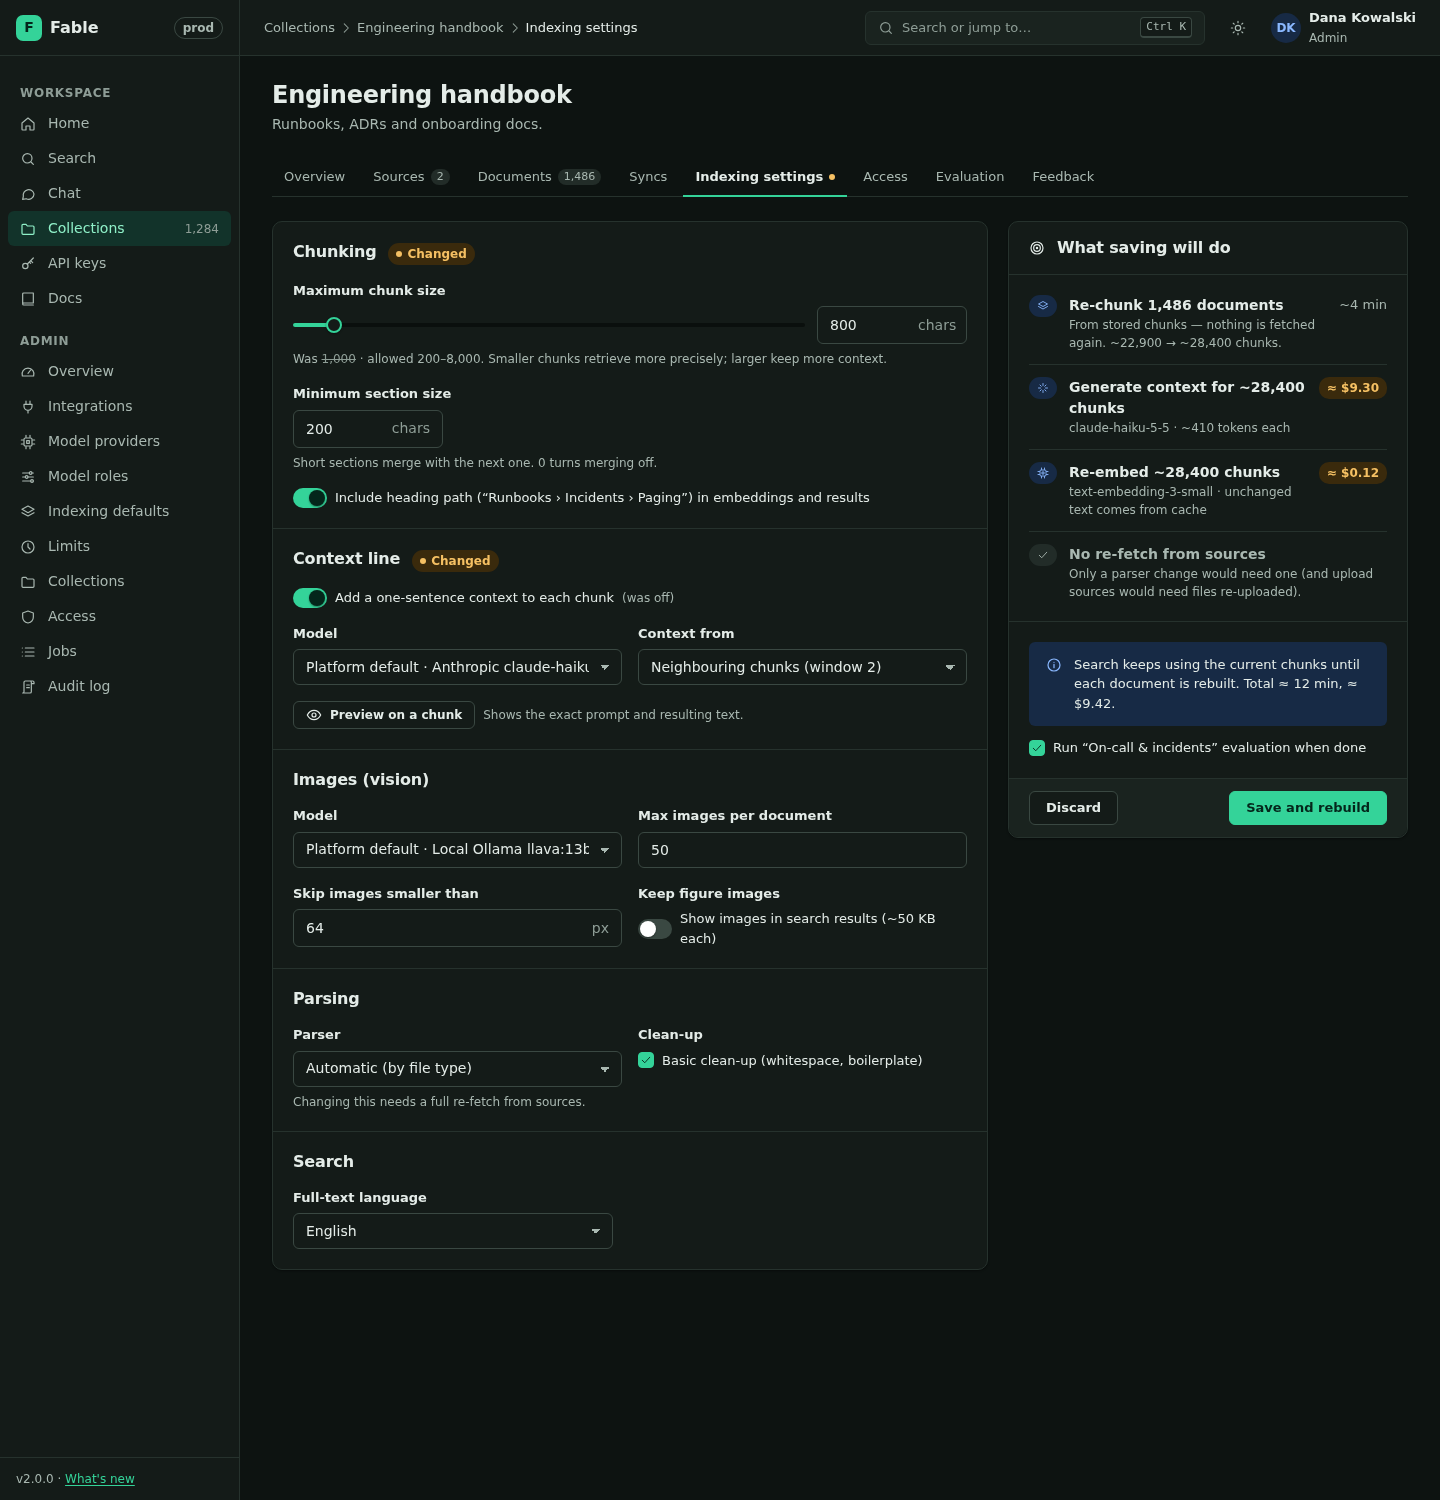
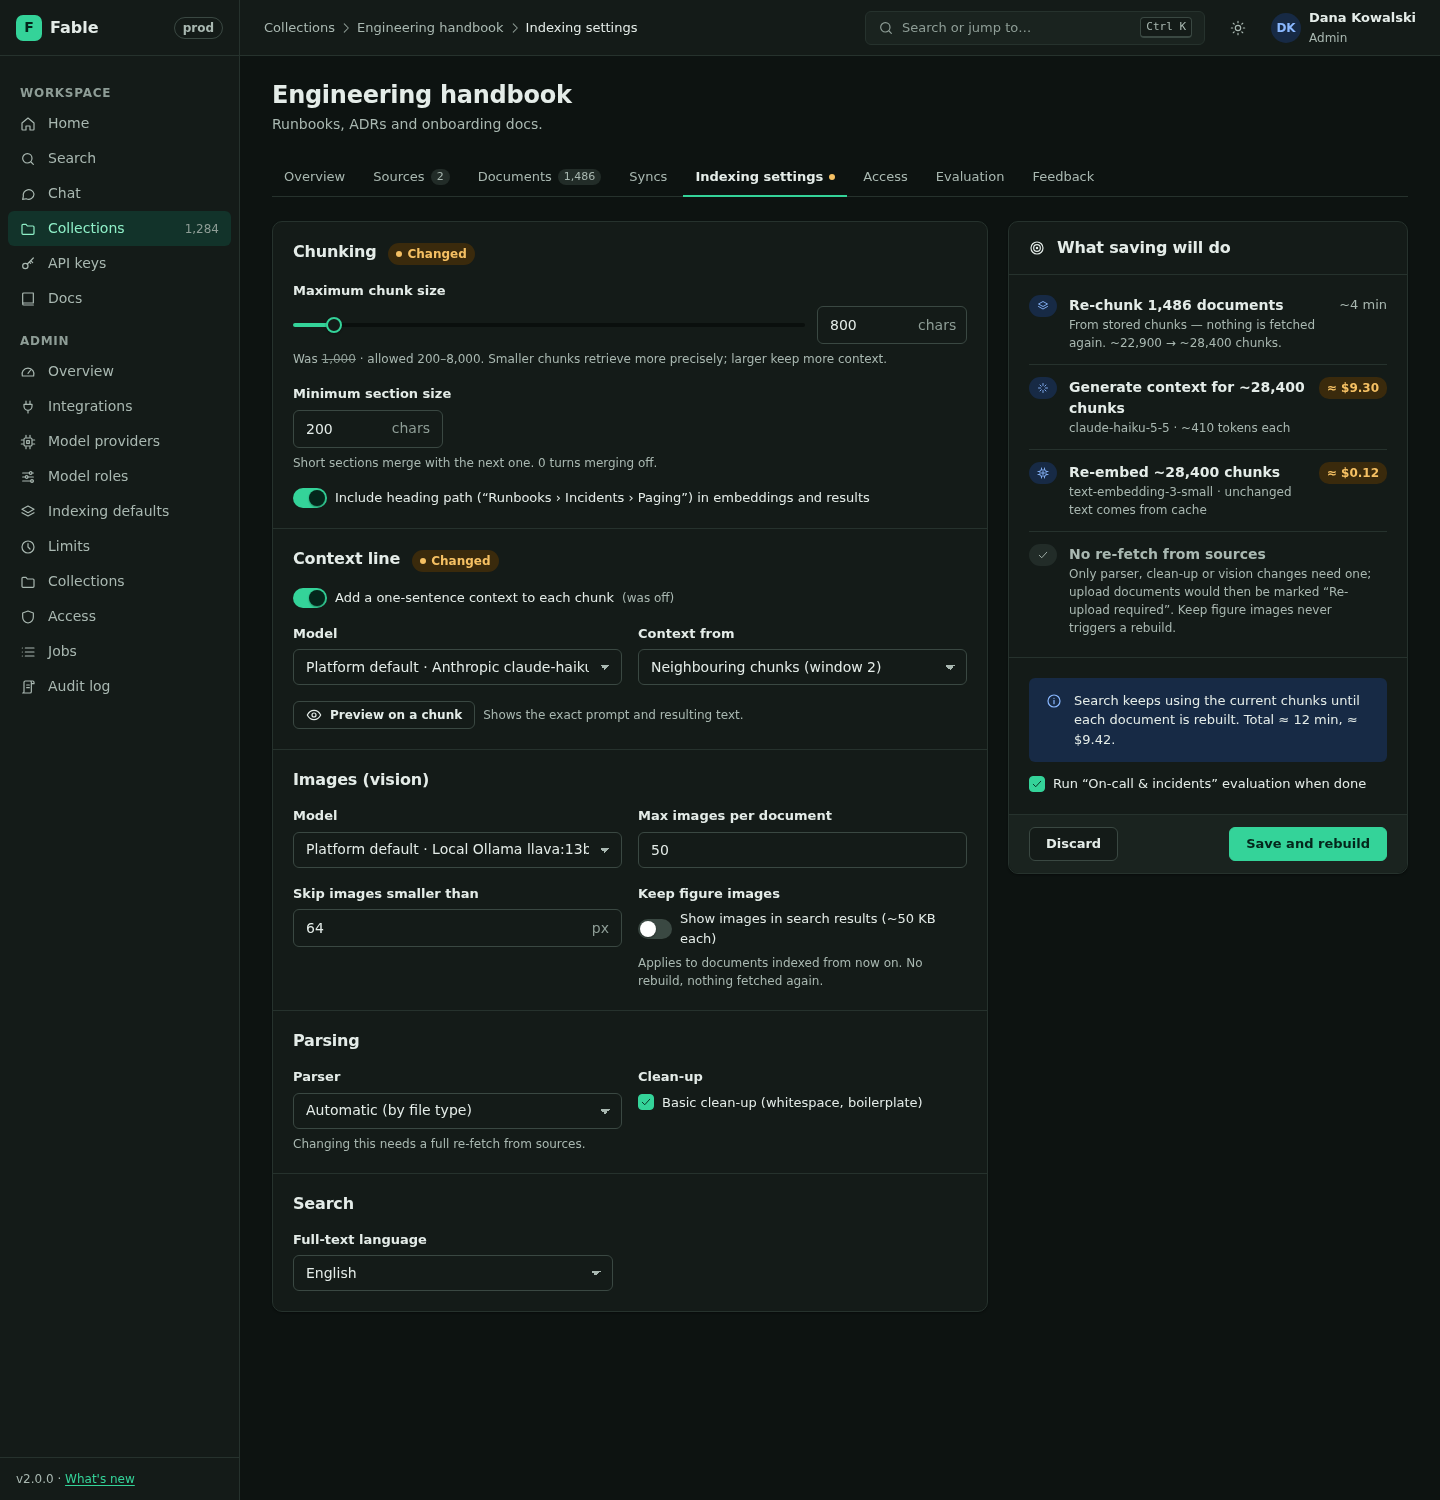
FAB-180: Align keep_figures and upload re-parse with FAB-141/FAB-140
- keep_figures no longer listed as a re-parse trigger; it applies to
  documents indexed afterwards with no rebuild and no fetch (FAB-141).
- Documents tab gains a 'Re-upload required' status for upload documents
  after a re-parse-triggering change, with a filter, callout and re-upload
  action (FAB-140, ST-5); surfaced in collections 'Needs attention'.

diff --git a/docs/design/indexing-settings.html b/docs/design/indexing-settings.html
@@ -68,7 +68,7 @@
           </div>
           <div class="grid-2">
             <div class="field"><label class="label" for="v-min">Skip images smaller than</label><div class="input-group"><input class="input num" id="v-min" value="64"><span class="addon">px</span></div></div>
-            <div class="field"><span class="label">Keep figure images</span><div class="switch" role="switch" aria-checked="false" tabindex="0"><span class="track"></span>Show images in search results (~50 KB each)</div></div>
+            <div class="field"><span class="label">Keep figure images</span><div class="switch" role="switch" aria-checked="false" tabindex="0"><span class="track"></span>Show images in search results (~50 KB each)</div><span class="help">Applies to documents indexed from now on. No rebuild, nothing fetched again.</span></div>
           </div>
         </div>
       </section>
@@ -107,7 +107,7 @@
         </div>
         <div class="impact-row">
           <span class="pill" style="padding:0;width:28px;justify-content:center"><i data-icon="check"></i></span>
-          <div class="muted"><strong>No re-fetch from sources</strong><div class="xs">Only a parser change would need one (and upload sources would need files re-uploaded).</div></div>
+          <div class="muted"><strong>No re-fetch from sources</strong><div class="xs">Only parser, clean-up or vision changes need one; upload documents would then be marked “Re-upload required”. Keep figure images never triggers a rebuild.</div></div>
           <span></span>
         </div>
       </div>

diff --git a/docs/design/flows/06-collection-detail.md b/docs/design/flows/06-collection-detail.md
@@ -45,9 +45,43 @@ Runbooks, ADRs… · Owner Dana Kowalski · Visible to everyone
 | Tab | Content | Key actions |
 |---|---|---|
 | Sources | Table: source, kind and target, connection (with health pill), documents, last sync (+added ~changed −removed), next run, enabled toggle | Add source ([flow 4](04-confluence-paste-a-link.md)), Edit, Sync, Force resync…, Disable, Delete |
-| Documents | Paged table (UX-11): title, source, status (indexed/pending/failed with error tooltip), chunks, updated, indexed; filters for status, source and type; `q` on title | Bulk retry failed, Reindex; the document drawer shows metadata, error, and a paged chunk viewer (`from_ordinal`), with each chunk's heading path and context line shown separately |
+| Documents | Paged table (UX-11): title, source, status (indexed / pending / failed with error tooltip / **re-upload required**), chunks, updated, indexed; filters for status (incl. *Re-upload required*), source and type; `q` on title | Bulk retry failed, Reindex, **Re-upload…** (see below); the document drawer shows metadata, error, and a paged chunk viewer (`from_ordinal`), with each chunk's heading path and context line shown separately |
 | Syncs | `sync_runs` history per source: started, duration, listed/added/changed/removed/failed, outcome | Open run details, Retry |
 | Indexing settings | See [flow 7](07-indexing-settings.md) | Save and rebuild |
 | Access | Owner, editors and readers (users and Entra groups) with typeahead; "Visible to everyone" toggle | Add, change role, remove; audited |
 | Evaluation | See [flow 10](10-evaluation.md) | Run, compare |
 | Feedback | Paged list of chat feedback for this collection (E-6): rating, comment, question, answer excerpt, retrieved chunks, date; filter 👍/👎/has comment | "Add to evaluation set" turns a 👎 into a golden item in one click |
+
+## Documents tab: re-upload required
+
+Upload sources can't be re-fetched (ST-5, FAB-140). After a change that needs a **re-parse** (parser,
+transformers or vision settings, see [flow 7](07-indexing-settings.md)), Fable re-parses connector
+documents from their sources. Upload documents get the status **Re-upload required** instead of being left
+silently stale. Chunk-size and context-line changes never cause this; they rebuild from stored chunks.
+
+```
+[All 1,486] [Indexed] [Pending] [Failed 3] [Re-upload required 212]      ← status filter (saved views)
+┌ ⚠ 212 uploaded documents were indexed with the previous parser settings. They still appear in search
+│   with their old chunks. Upload them again to apply the new settings.        [Re-upload files…] ┐
+│ ☐ Title                 │ Source         │ Status                 │ Chunks │ Uploaded   │   ⋯ │
+│ ☐ Q3-architecture.pdf   │ Design uploads │ ⇪ Re-upload required   │ 41     │ 2026-09-02 │   ⋯ │
+│ ☐ vendor-contract.docx  │ Design uploads │ ⇪ Re-upload required   │ 18     │ 2026-08-11 │   ⋯ │
+```
+
+* **Status pill**: warning tone, upload icon, label "Re-upload required". The tooltip names the change that
+  caused it ("Parser changed by Dana Kowalski on 12 Nov"). It is a document status, so it also appears in
+  the document drawer, in the collection Overview counts ("212 need re-upload") and in the "Needs
+  attention" saved view of the collections list ([flow 5](05-collections-list.md)).
+* **Filter**: `status=reupload_required` is a value of the Documents status filter, with its own count.
+  The callout above the table appears whenever the count is non-zero, on any filter.
+* **Search behaviour**: these documents keep serving their previous chunks (R-2, PS-4) until replaced.
+* **Re-upload action**: "Re-upload files…" (callout, bulk action on selected rows, and the row menu for
+  one document) opens the upload drawer for the document's upload source, listing the expected file
+  names. Uploaded files are matched by file name to the existing documents and replace them in place,
+  which re-parses with the current settings and clears the status. Files that don't match are offered as
+  new documents. The drawer shows "n of 212 matched".
+* **Dismiss instead**: owners and editors can bulk **Delete** documents they no longer need. There is no
+  "keep stale and clear the flag" action, because the point of the status is to avoid silently stale
+  chunks.
+* The impact preview ([flow 7](07-indexing-settings.md)) states the number of upload documents that will
+  get this status before the change is saved.

diff --git a/docs/design/flows/07-indexing-settings.md b/docs/design/flows/07-indexing-settings.md
@@ -46,10 +46,14 @@ spend, whether sources are re-fetched), with no risk to search while it rebuilds
   | chunk max/min, heading path | Re-chunk *n docs* (+ re-embed, + re-context if on) | no |
   | context on / model / prompt / scope / window | Re-context *n chunks* + re-embed | no |
   | context off | Clear context + re-embed | no |
-  | vision model / prompt / min px / max images, keep figures | Re-parse *n docs* (force resync) | **yes**, and upload sources need re-upload: "*3 upload sources (212 files) can't be re-parsed without re-uploading*" |
+  | vision model / prompt / min px / max images | Re-parse *n docs* (force resync) | **yes**, and upload sources need re-upload: "*3 upload sources (212 files) can't be re-parsed without re-uploading*". Those documents keep serving their current chunks and are marked **Re-upload required** ([flow 6](06-collection-detail.md#documents-tab-re-upload-required), ST-5) |
+  | keep figures (on or off) | **None**: no rebuild job, nothing in the preview's step list | **no**. The panel shows an info row: "*Applies to documents indexed from now on. Existing documents get figure images the next time they change.*" (FAB-141) |
   | parser / transformers | Re-parse | **yes** (same warning) |
   | full-text language | Rebuild full-text index | no, no LLM cost |
 
+* **Keep figure images** never triggers a rebuild or a fetch (FAB-141). It takes effect for documents indexed
+  after the save, so its help text says so next to the toggle. Saving a change that touches only this
+  setting shows the button label **Save** (not "Save and rebuild").
 * **Cost** (CR-8) appears only when the model has a price configured. Otherwise the panel shows "Cost
   unknown. Set a price on the model to see estimates" with a link for admins.
 * **CH-3 guard**: if `max_chars` plus the context line could exceed the embedding model's input limit,

diff --git a/docs/design/flows/05-collections-list.md b/docs/design/flows/05-collections-list.md
@@ -33,9 +33,9 @@ Collections you can read. Admins see every collection under Admin → Collection
 * The data comes from `GET /collections?limit=25&cursor=…&sort=name&q=…&status=…&role=…&owner=…&connector=…`.
   The response includes `total` and per-row status aggregates (counts only, no document lists).
 * **Status** is derived on the server: *Healthy*, *Indexing n%* (any sync or rebuild running), *n failed
-  docs*, *Sync failed* (last sync errored), *Empty* (no sources), *Connection needs attention*.
-* **Saved views** are preset filters. "Needs attention" combines failed docs, failed syncs and
-  connection problems.
+  docs*, *Sync failed* (last sync errored), *Empty* (no sources), *Connection needs attention*, *n need re-upload* (upload documents after a re-parse-triggering change, ST-5).
+* **Saved views** are preset filters. "Needs attention" combines failed docs, failed syncs,
+  connection problems and documents that need re-upload.
 * **Bulk actions** are limited to what every selected row allows (role-aware). Actions the role doesn't
   allow are disabled with a tooltip ("You're a reader in 1 selected collection"). They run as a job, and
   progress shows in a toast.
